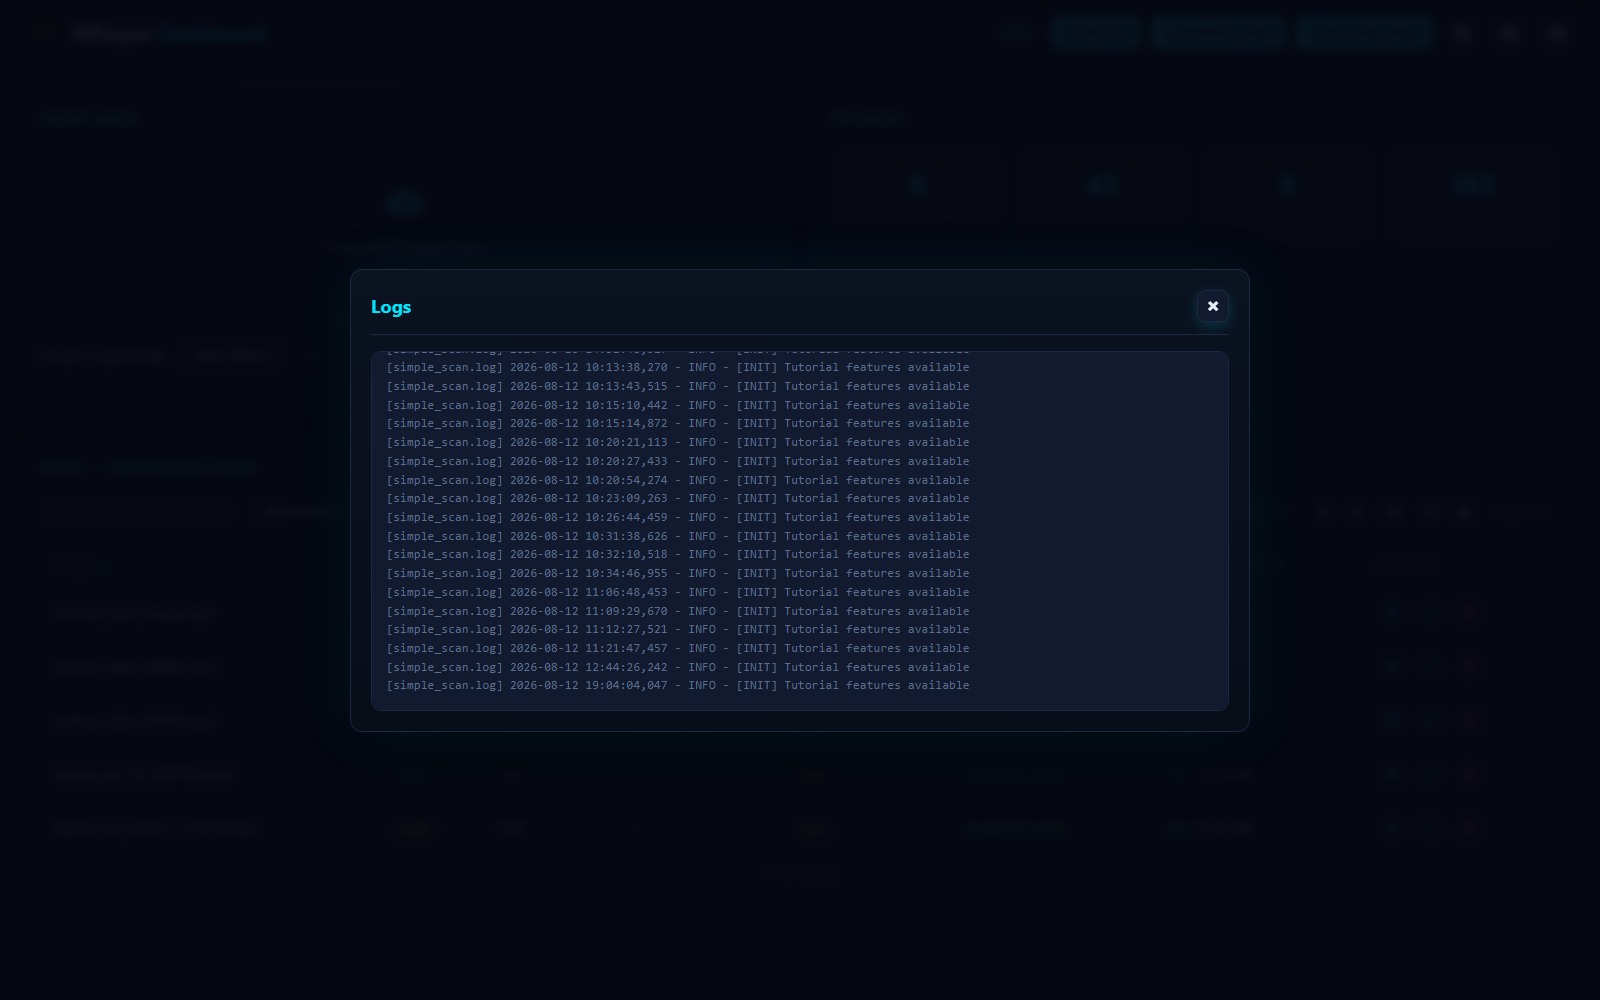
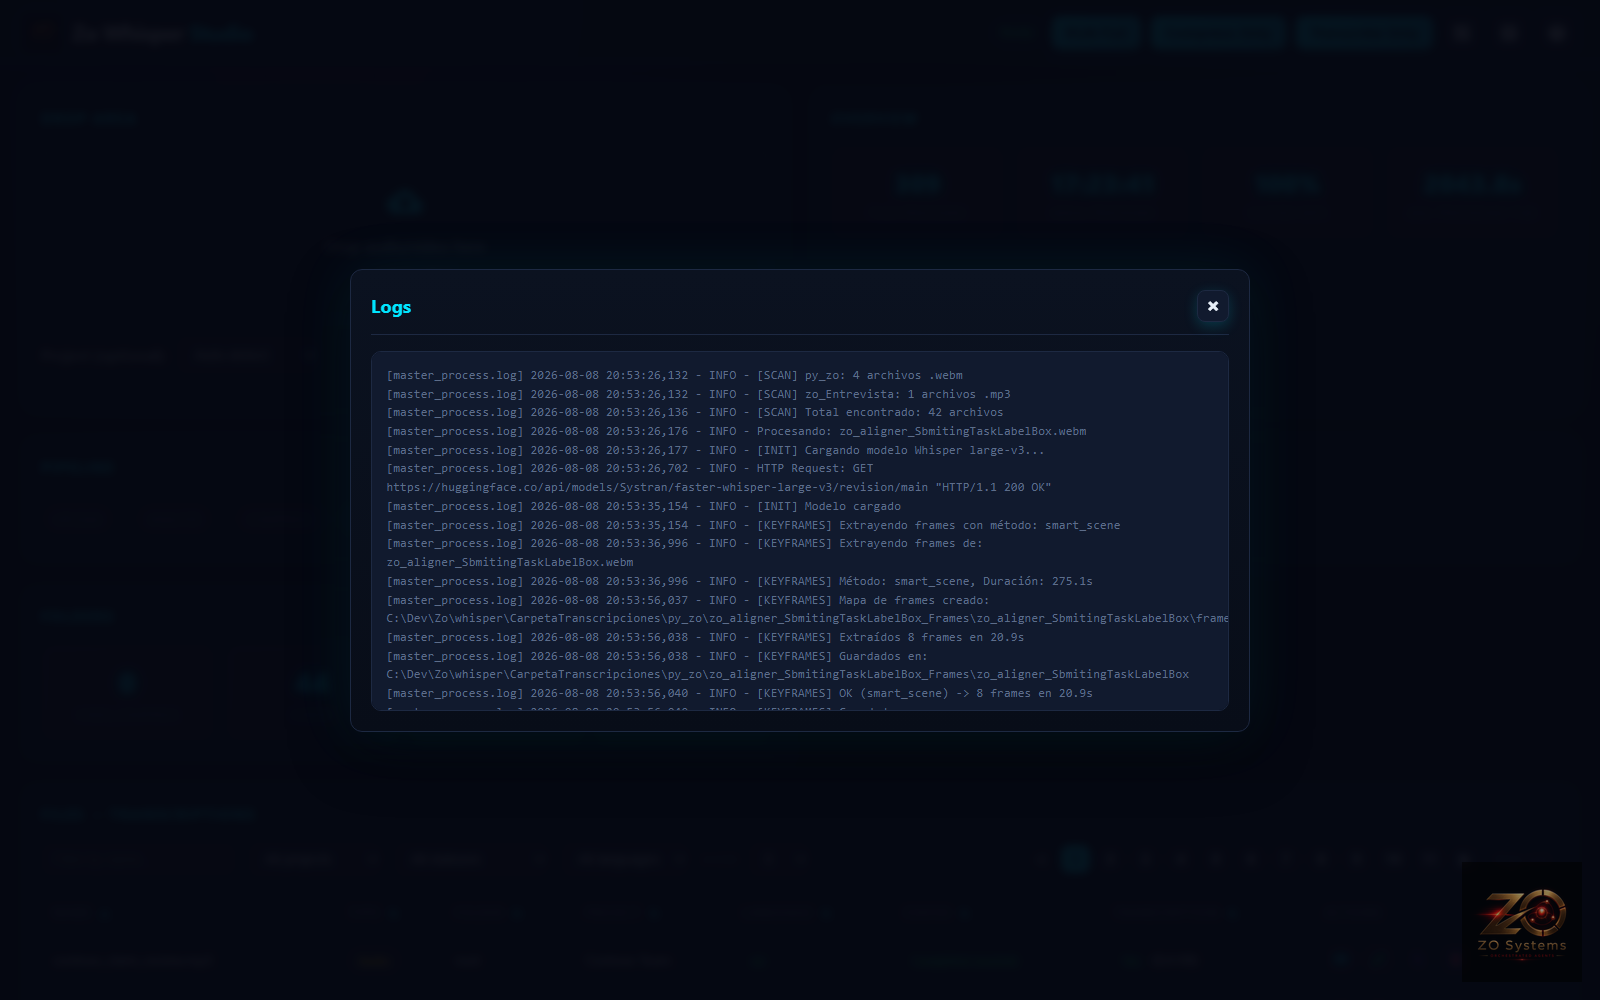
docs: regenerate dashboard screenshots with new branding/UI, fix watermark RGB bug
Screenshots were stale (old "Whisper Dashboard" title, no Overview metrics
card, no Pipeline stepper, no DOCS tab) after the US-001 dashboard work.
Regenerated all of them via generate_mock_data.py + scripts/e2e.py against
projects.json.example (not the local, non-example projects.json) — the
first regeneration pass accidentally captured a real former-client project
name from local config into the Projects (CRUD) screenshot; caught it by
reading the output image before committing, backed up the local config,
swapped in the synthetic example, and redid the whole capture. Added the
new dashboard_docs.png (DOCS tab rendering a generated manual) to the
README gallery.

watermark.py's add_watermark() crashed on the logo PNG (RGB, no alpha
channel) via `.split()[3]` — one-line fix, convert to RGBA first.

Claude-Session: https://claude.ai/code/session_01M425dMRtZtnU2AKUwTxqUW

Changed region(s): [[0.2188, 0.341, 0.7188, 0.713], [0.9062, 0.868, 1.0, 0.961]]

diff --git a/docs/assets/watermark.py b/docs/assets/watermark.py
@@ -10,6 +10,7 @@ from PIL import Image
 
 def add_watermark(im: Image.Image, logo: Image.Image, margin: int = 18, width: int = 120) -> Image.Image:
     im = im.convert("RGBA")
+    logo = logo.convert("RGBA")
     ratio = width / logo.width
     logo_resized = logo.resize((width, int(logo.height * ratio)), Image.LANCZOS)
 

diff --git a/README.md b/README.md
@@ -309,9 +309,13 @@ python dashboard.py
 |---|---|---|
 | ![home](docs/screenshots/dashboard_home.png) | ![preview](docs/screenshots/dashboard_preview.png) | ![editor](docs/screenshots/dashboard_editor.png) |
 
-| Extracted frames | Edit transcription | Projects (CRUD) |
+| Extracted frames | Generated documentation | Edit transcription |
 |---|---|---|
-| ![frames](docs/screenshots/dashboard_frames.png) | ![edit](docs/screenshots/dashboard_edit.png) | ![projects](docs/screenshots/dashboard_projects.png) |
+| ![frames](docs/screenshots/dashboard_frames.png) | ![docs](docs/screenshots/dashboard_docs.png) | ![edit](docs/screenshots/dashboard_edit.png) |
+
+| Projects (CRUD) |
+|---|
+| ![projects](docs/screenshots/dashboard_projects.png) |
 
 | Logs | User guide |
 |---|---|
